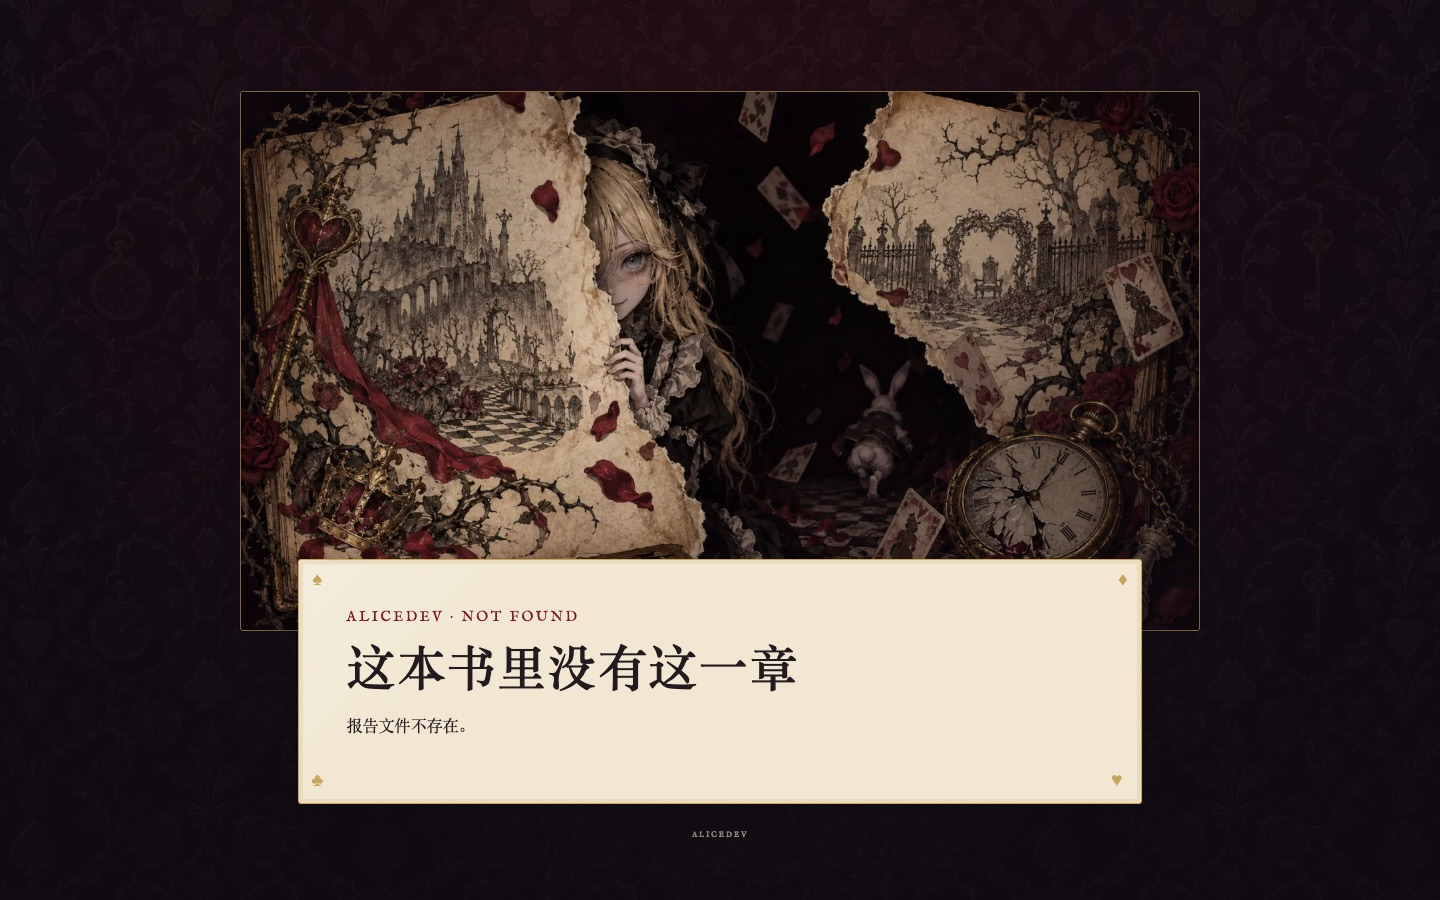
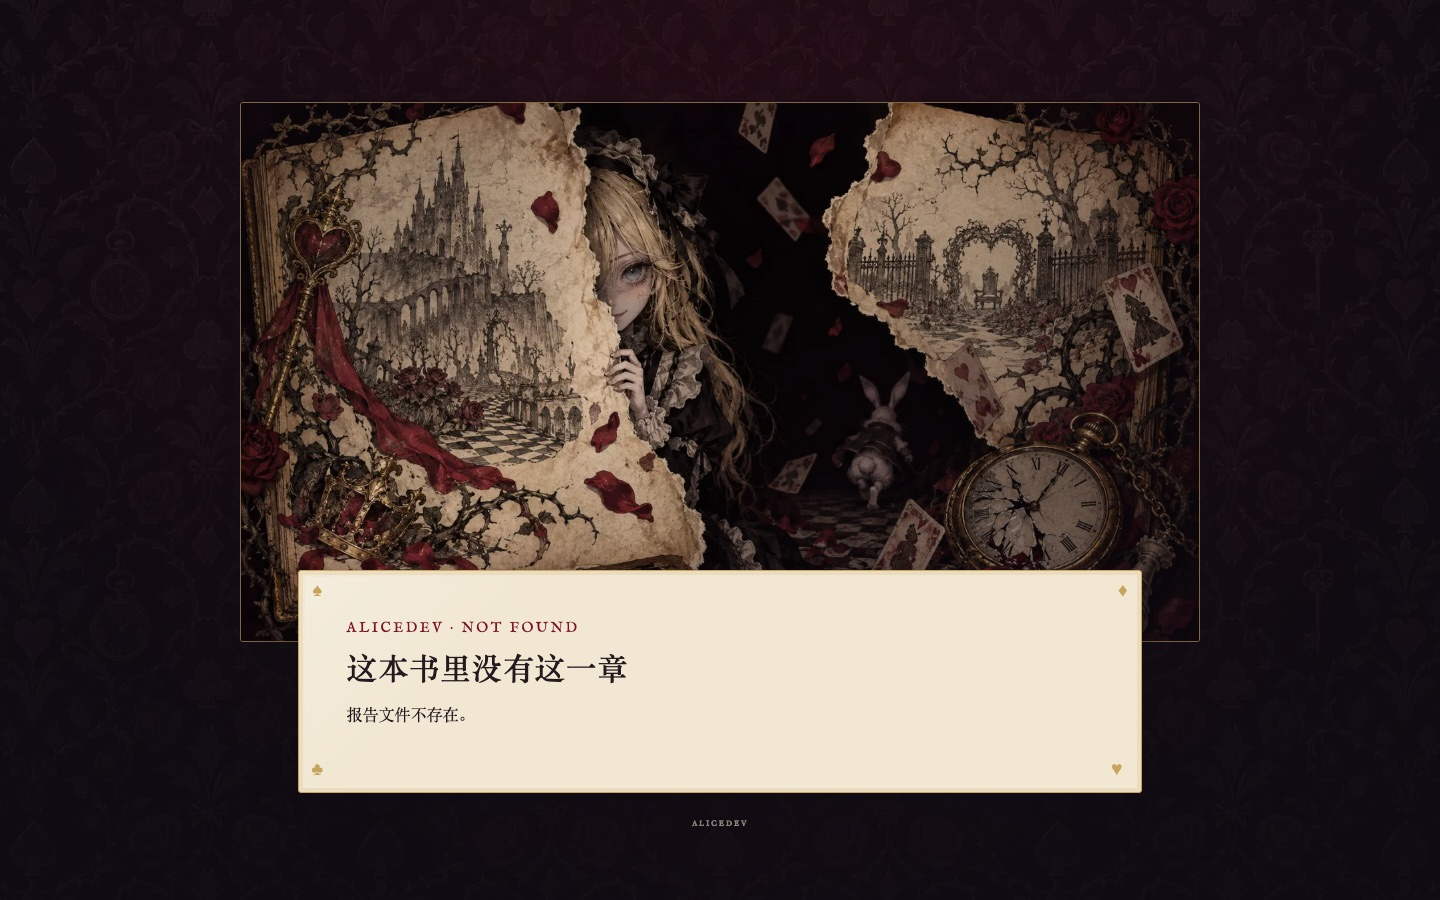
fix(gateway): smaller page and session titles

Changed region(s): [[0.1562, 0.0933, 0.8438, 0.7156], [0.2188, 0.6844, 0.5625, 0.8089], [0.1875, 0.84, 0.8125, 0.9333]]

diff --git a/gateway/static/alice/alice.css b/gateway/static/alice/alice.css
@@ -194,26 +194,17 @@ body.alice-page {
 }
 
 .alice-card h1,
-.alice-card h2,
 .alice-card p {
   margin-top: 0;
 }
 
 .alice-card h1 {
-  margin-bottom: 1rem;
+  margin-bottom: .8rem;
   color: var(--ink);
-  font-size: clamp(1.8rem, 4vw, 3.05rem);
+  font-size: clamp(1.45rem, 2.4vw, 1.9rem);
   font-weight: 600;
-  line-height: 1.2;
+  line-height: 1.3;
   letter-spacing: .03em;
-}
-
-.alice-card h2 {
-  margin-bottom: .7rem;
-  color: var(--blood);
-  font-size: 1.3rem;
-  font-weight: 600;
-  letter-spacing: .08em;
 }
 
 .alice-card p {
@@ -323,8 +314,8 @@ body.alice-page {
 }
 
 .alice-card-heading h1.alice-session-title {
-  font-size: clamp(1.45rem, 2.3vw, 1.95rem);
-  line-height: 1.4;
+  font-size: clamp(1.2rem, 1.7vw, 1.45rem);
+  line-height: 1.45;
 }
 
 .alice-card-heading h1 {
